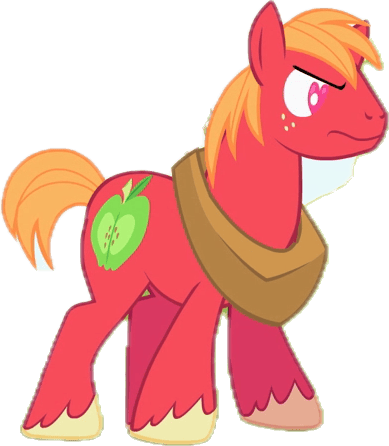
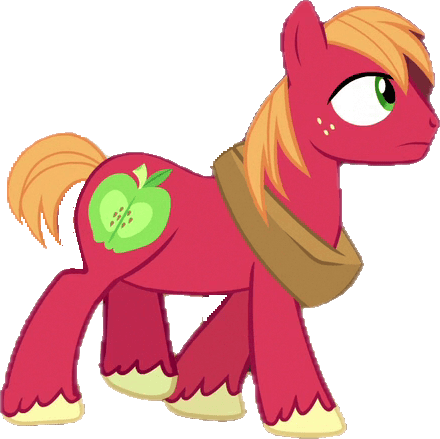
fix(images): Big Macintosh placide, fini l'air fâché
L'image tirée de « Big McIntosh Nope S2E3 » le montrait énervé (œil rose
plissé, moue contrariée) avec un résidu blanchâtre derrière la tête. Elle
est remplacée par « Big McIntosh entering the barn S9E23 » : profil trois
quarts, quatre sabots au sol, œil vert posé, bouche douce, moitié de pomme
verte bien visible.

Trié parmi 982 fichiers du wiki (préfixes « Big McIntosh » et « Big Mac »),
387 candidates détourées et mesurées. Trois résidus de grange gommés par
gamme de couleur en mode boîte, sur critère de saturation.

L'infobox approuvée par le propriétaire n'était pas utilisable : le fichier
d'origine fait bien 176 × 228, et son alpha est plein (fond vert en dur).

Effet de bord voulu : le rapport largeur/hauteur passe de 0,87 à 1,00, donc
dans la boîte de hauteur fixe il redevient le plus massif des poneys
standards — il paraissait plus fin qu'Applejack.

Claude-Session: https://claude.ai/code/session_01JUPcesLpvVzGxCLnsfZNyB

diff --git a/NOTES.md b/NOTES.md
@@ -481,6 +481,84 @@ couleur du template disparaissent donc purement et simplement :
   forcées à `scaleY(1)` et le médaillon**, capturée en Chrome headless. Beaucoup plus
   rapide que Playwright, et elle montre d'un coup les trois cadrages qui comptent.
 
+## 2026-08-27 — correctif visuel : Big Macintosh cesse d'avoir l'air fâché
+
+Demande du propriétaire : l'image issue de `Big McIntosh Nope S2E3.png` le montrait
+**énervé** — œil rose-rouge plissé, moue contrariée — plus un **résidu blanchâtre**
+derrière la tête et des sabots teintés de rose par le fond. Or son caractère est
+l'inverse : placide et doux. Référence approuvée : l'image d'infobox du wiki.
+
+### L'infobox n'était pas une solution de repli utilisable
+
+Deux vérifications qui ont fait tomber le plan B avant de l'essayer :
+
+- **Le fichier d'origine EST la vignette.** `Big McIntosh id S2E17.png` fait
+  **176 × 228** dans `imageinfo` — ce n'est pas un rendu réduit, c'est la taille du
+  fichier téléversé. Agrandir ×2 aurait donné 456 px de haut d'une source de 176.
+- **Elle n'est pas détourée.** Le PNG est bien en RGBA, mais son alpha est **plein** :
+  le fond vert de la scène est là, en dur. Le « déjà transparente » du brief était
+  faux. Vérifier l'alpha, pas le mode de couleur.
+
+### Le tri automatique, 982 fichiers ramenés à un
+
+Recherche `list=allimages` sur les deux préfixes **`Big McIntosh` ET `Big Mac`** (le
+wiki nomme ses captures des deux façons, 982 fichiers en tout). Puis le tri du §
+conversion : rejet des noms citant un autre personnage, des EG / Pony Life / costumes,
+et des noms d'**émotion négative** (`nope`, `angry`, `worried`, `sad`, `sigh`,
+`unamused`…) — 387 candidates téléchargées en `format=original`, détourées, mesurées.
+77 avec `bords = 0` et plus de 380 px de haut, présentées en planches contact.
+
+Ce que les planches ont appris :
+
+- **Ses poses calmes les plus nettes sont les moins utilisables.** Sur les captures
+  « eeyup », qui sont légion, il est presque toujours cadré à la tête et aux épaules :
+  `bords ≥ 1`, donc écartées d'office. Les vraies vues plein pied sont les plans de
+  travail (foin, tonneaux, charrette) — et là il a souvent un **objet accroché** que
+  le masque Vision garde comme partie du sujet (seau, arrosoir, fourche).
+- **« Yeux mi-clos » et « sourire léger » ne vont pas ensemble dans la série.** Les
+  captures à paupières basses sont des répliques parlées : la bouche est ouverte et
+  les dents serrées. `Big McIntosh "how committed I am" S9E23` (465 × 557, plus
+  grande, marque visible) a été écartée pour ça — de près, elle se lit *crispée*.
+  Inversement `Big McIntosh grinning happily S8E12` sourit franchement mais est
+  cadrée de face : pas de marque de beauté, pas d'arrière-train, et une ombre grise
+  restée collée derrière l'épaule.
+- **Retenue : `Big McIntosh entering the barn S9E23`** (1280 × 720, sortie
+  440 × 439). Profil trois quarts, **quatre sabots au sol**, œil **vert** grand
+  ouvert et posé, bouche fermée d'un trait doux, joug, et la **moitié de pomme verte
+  bien en évidence** sur le flanc — ce que la fiche annonce en texte.
+
+### Trois résidus de grange, trois boîtes
+
+Le masque avait ramassé trois morceaux de décor. Gomme par gamme de couleur en mode
+boîte (§ du 25/08), jamais par diffusion :
+
+1. **Le mur, coincé entre la queue et la croupe** — une bande mauve `(182, 106, 113)`
+   et une bande gris bleuté `(220, 225, 233)`. Le discriminant n'est ni la teinte ni
+   la clarté mais la **saturation** : aucune couleur de Big Mac dans cette zone ne
+   descend sous 100 (queue orange 142, trait bordeaux 123, robe 164) alors que le
+   mauve est à 76 et le gris à 13.
+2. **L'ombre noire de la grange entre les pattes arrière** — `max < 90` dans sa boîte.
+3. **Un éclat gris-vert au sommet du joug** — `saturation < 60` dans sa boîte.
+
+**Le piège s'est déclenché exactement là où le § du 25/08 le prédit.** Première passe,
+boîte n° 1 tracée large avec la règle « clair dans tous les canaux » (`min > 115`) :
+elle a **percé la marque de beauté**, dont la chair claire est à `(200, 239, 160)`,
+`min = 160`. Compté : 4 984 pixels verts avant, 3 490 après. La boîte a été rabattue à
+`x < 86` — la pomme commence à `x = 89` — et la règle changée pour la saturation.
+Depuis, l'audit automatique (composantes connexes des pixels peu saturés ou très
+sombres, hors œil et sabots) rend **zéro amas de 20 pixels ou plus**.
+
+### Pas d'agrandissement : la boîte de la fiche rend le plafond de 700 px sans objet
+
+`object-fit: contain` dans une boîte de hauteur fixe (`clamp(220px, 42vw, 380px)`)
+fait que **la taille du fichier ne change rien à la taille perçue** : tous les poneys
+sortent à la hauteur de la boîte. Ce qui fait la carrure, c'est donc le **rapport
+largeur/hauteur**. Et c'est là que l'ancienne image trahissait le personnage :
+389 × 446 = **0,87**, plus étroit qu'Applejack (424 × 470 = 0,90) — Big Macintosh
+paraissait *plus fin* que sa sœur. La nouvelle est à **1,00** : à hauteur égale il est
+enfin le plus large des poneys standards. La source native (439 px) dépasse déjà la
+boîte, donc aucun rééchantillonnage — l'image reste à sa netteté d'origine.
+
 ## 2026-08-25 — correctif visuel : Luna, Rarity et Trixie
 
 Trois images reprises après revue visuelle à l'échelle de la vignette de galerie.
@@ -684,7 +762,7 @@ Toutes sur `mlp.fandom.com`, © Hasbro, reprises dans un projet de fan non comme
 | Fluttershy | [`Fluttershy ID S4E16.png`](https://mlp.fandom.com/wiki/File:Fluttershy_ID_S4E16.png) | 438 × 423 | 48 Ko | aucun |
 | Rarity | [`Rarity "could we spend it together?" S7E6.png`](https://mlp.fandom.com/wiki/File:Rarity_%22could_we_spend_it_together%3F%22_S7E6.png) | 477 × 502 | 79 Ko | gomme par gamme de couleur (voir § correctif du 25/08) |
 | Spike | [`Spike ID S4E24.png`](https://mlp.fandom.com/wiki/File:Spike_ID_S4E24.png) | 326 × 472 | 35 Ko | aucun |
-| Big Macintosh | [`Big McIntosh Nope S2E3.png`](https://mlp.fandom.com/wiki/File:Big_McIntosh_Nope_S2E3.png) | 389 × 446 | 40 Ko | érosion 2 px |
+| Big Macintosh | [`Big McIntosh entering the barn S9E23.png`](https://mlp.fandom.com/wiki/File:Big_McIntosh_entering_the_barn_S9E23.png) | 440 × 439 | 60 Ko | gomme par gamme de couleur (voir § correctif du 27/08) |
 | Apple Bloom | [`Apple Bloom id S01E12.png`](https://mlp.fandom.com/wiki/File:Apple_Bloom_id_S01E12.png) | 417 × 520 | 47 Ko | aucun |
 | Sweetie Belle | [`Sweetie Belle ID S4E19.png`](https://mlp.fandom.com/wiki/File:Sweetie_Belle_ID_S4E19.png) | 563 × 638 | 63 Ko | aucun |
 | Scootaloo | [`Scootaloo ID S6E4.png`](https://mlp.fandom.com/wiki/File:Scootaloo_ID_S6E4.png) | 470 × 440 | 59 Ko | érosion 1 px, 1 graine de gomme |
